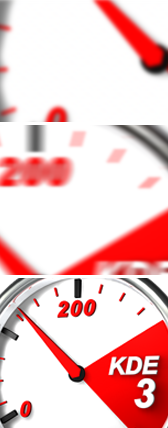
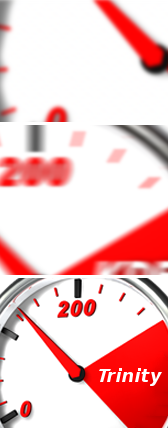
Bugfixes
git-svn-id: svn://anonsvn.kde.org/home/kde/branches/trinity/kdebase@1176854 283d02a7-25f6-0310-bc7c-ecb5cbfe19da

Changed region(s): [[0.5952, 0.8201, 1.0, 0.972]]

diff --git a/kpersonalizer/kcountrypage.cpp b/kpersonalizer/kcountrypage.cpp
@@ -44,8 +44,8 @@ KCountryPage::KCountryPage(TQWidget *parent, const char *name ) : KCountryPageDl
 	b_savedLanguageChanged = false;
 	b_startedLanguageChanged = false;
 
-	// set appropriate KDE version (kapplication.h)
-	txt_welcome->setText(i18n("<h3>Welcome to KDE %1</h3>").arg(KDE_VERSION_STRING));
+	// set appropriate Trinity version (kapplication.h)
+	txt_welcome->setText(i18n("<h3>Welcome to Trinity %1</h3>").arg(KDE_VERSION_STRING));
 
 	flang = new KFindLanguage();
 

diff --git a/kicker/kicker/core/containerarealayout.cpp b/kicker/kicker/core/containerarealayout.cpp
@@ -386,7 +386,7 @@ TQWidget* ContainerAreaLayout::widgetAt(int index) const
 
 TQSize ContainerAreaLayout::sizeHint() const
 {
-    const int size = KickerLib::sizeValue(KPanelExtension::SizeNormal);
+    const int size = KickerLib::sizeValue(KPanelExtension::SizeSmall);
 
     if (orientation() == Horizontal)
     {
